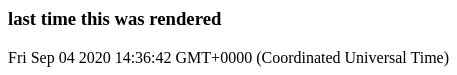
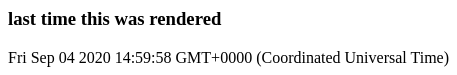
Updated markdown files

Changed region(s): [[0.2757, 0.6933, 0.3982, 0.8533]]

diff --git a/examples/javascript.md b/examples/javascript.md
@@ -18,14 +18,14 @@ console.table(table);
 ``` markdown-code-runner
 the javascript code is run in node
 it can do maths
-3959.4807229966354
+5350.900197212479
 and can render a table
 ┌─────────┬──────────┬───────┐
 │ (index) │   name   │ yummy │
 ├─────────┼──────────┼───────┤
-│    0    │ 'chips'  │   4   │
-│    1    │ 'pizza'  │   9   │
-│    2    │ 'burger' │   9   │
+│    0    │ 'chips'  │   1   │
+│    1    │ 'pizza'  │   8   │
+│    2    │ 'burger' │   7   │
 └─────────┴──────────┴───────┘
 
 ```
@@ -53,6 +53,6 @@ fetch('https://api.kanye.rest/')
 
 ``` markdown-code-runner
 Kanye West quote:
-Just stop lying about shit. Just stop lying.
+I care. I care about everything. Sometimes not giving a f#%k is caring the most.
 
 ```

diff --git a/examples/bash.md b/examples/bash.md
@@ -10,9 +10,9 @@ echo date: $(date)
 
 
 ``` markdown-code-runner
-hostname: fv-az120
+hostname: fv-az183
 shell: /bin/bash
-ls: LICENSE README.4.png README.md action.yml dist examples jest.config.js node_modules package.json setup-and-run.js src tsconfig.json yarn.lock
-date: Fri Sep 4 14:35:48 UTC 2020
+ls: LICENSE README.md action.yml dist examples jest.config.js node_modules package.json setup-and-run.js src tsconfig.json yarn.lock
+date: Fri Sep 4 14:58:49 UTC 2020
 
 ```

diff --git a/README.md b/README.md
@@ -39,7 +39,7 @@ export default App
 
 <!-- markdown-code-runner image-start -->
 
-![rendered jsx](./README.2.png)
+![rendered jsx](./README.4.png)
 
 <!-- markdown-code-runner image-end -->
 

diff --git a/examples/python.md b/examples/python.md
@@ -17,6 +17,6 @@ else:
 
 ``` markdown-code-runner
 running python code is easy
-all bets on black
+all bets on red
 
 ```
